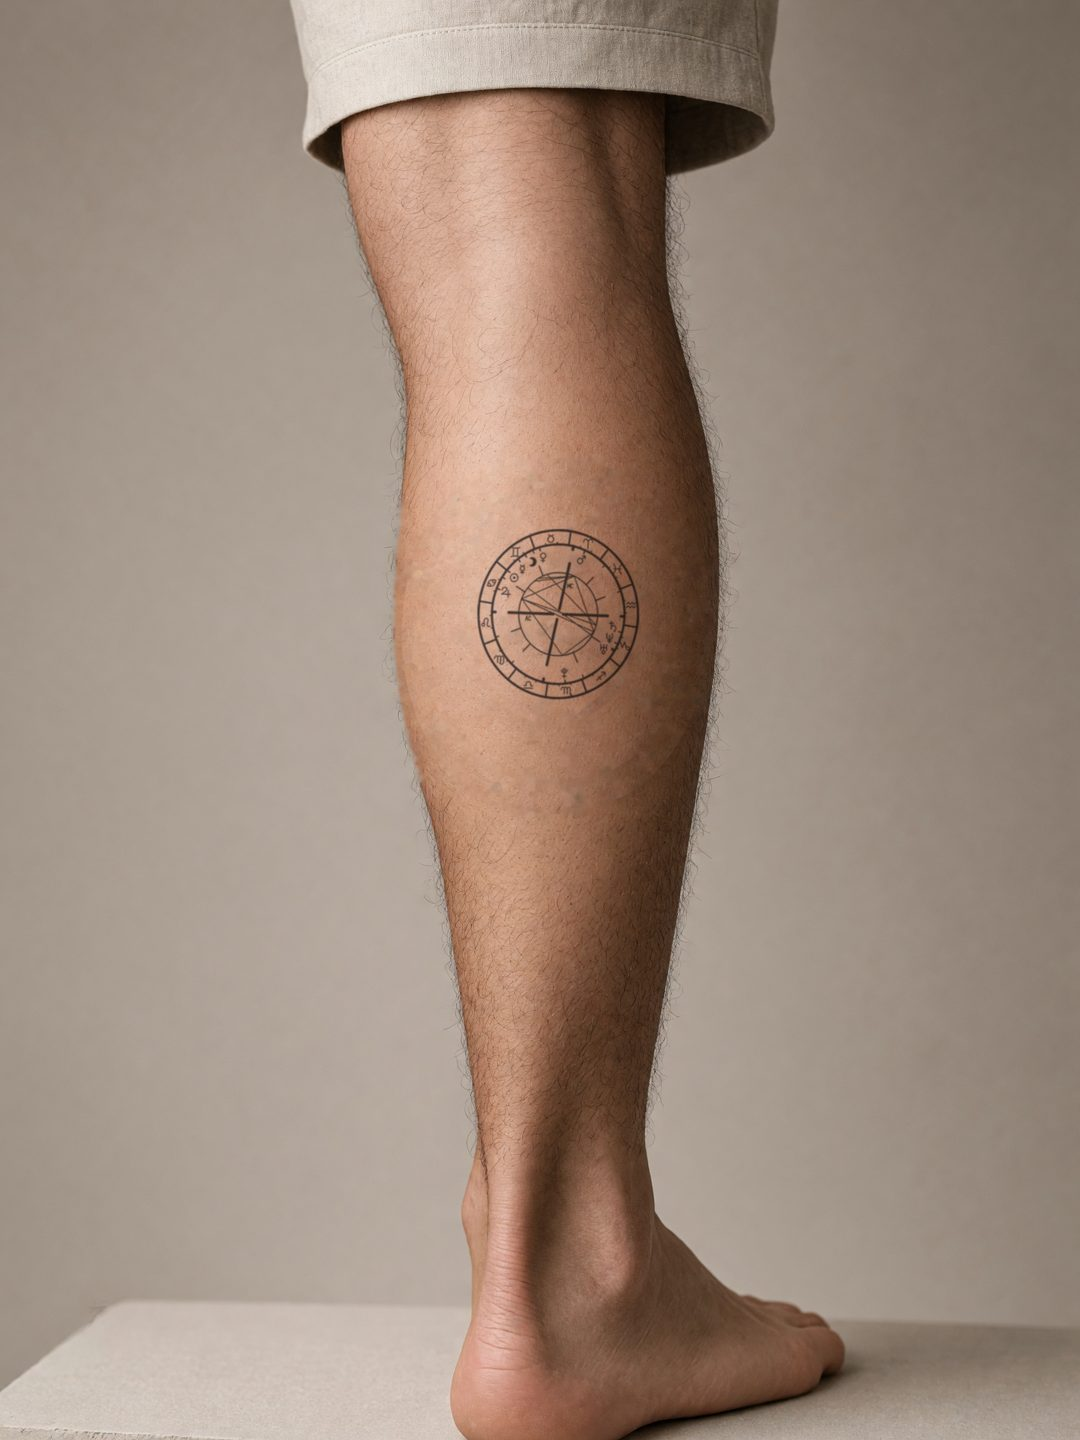
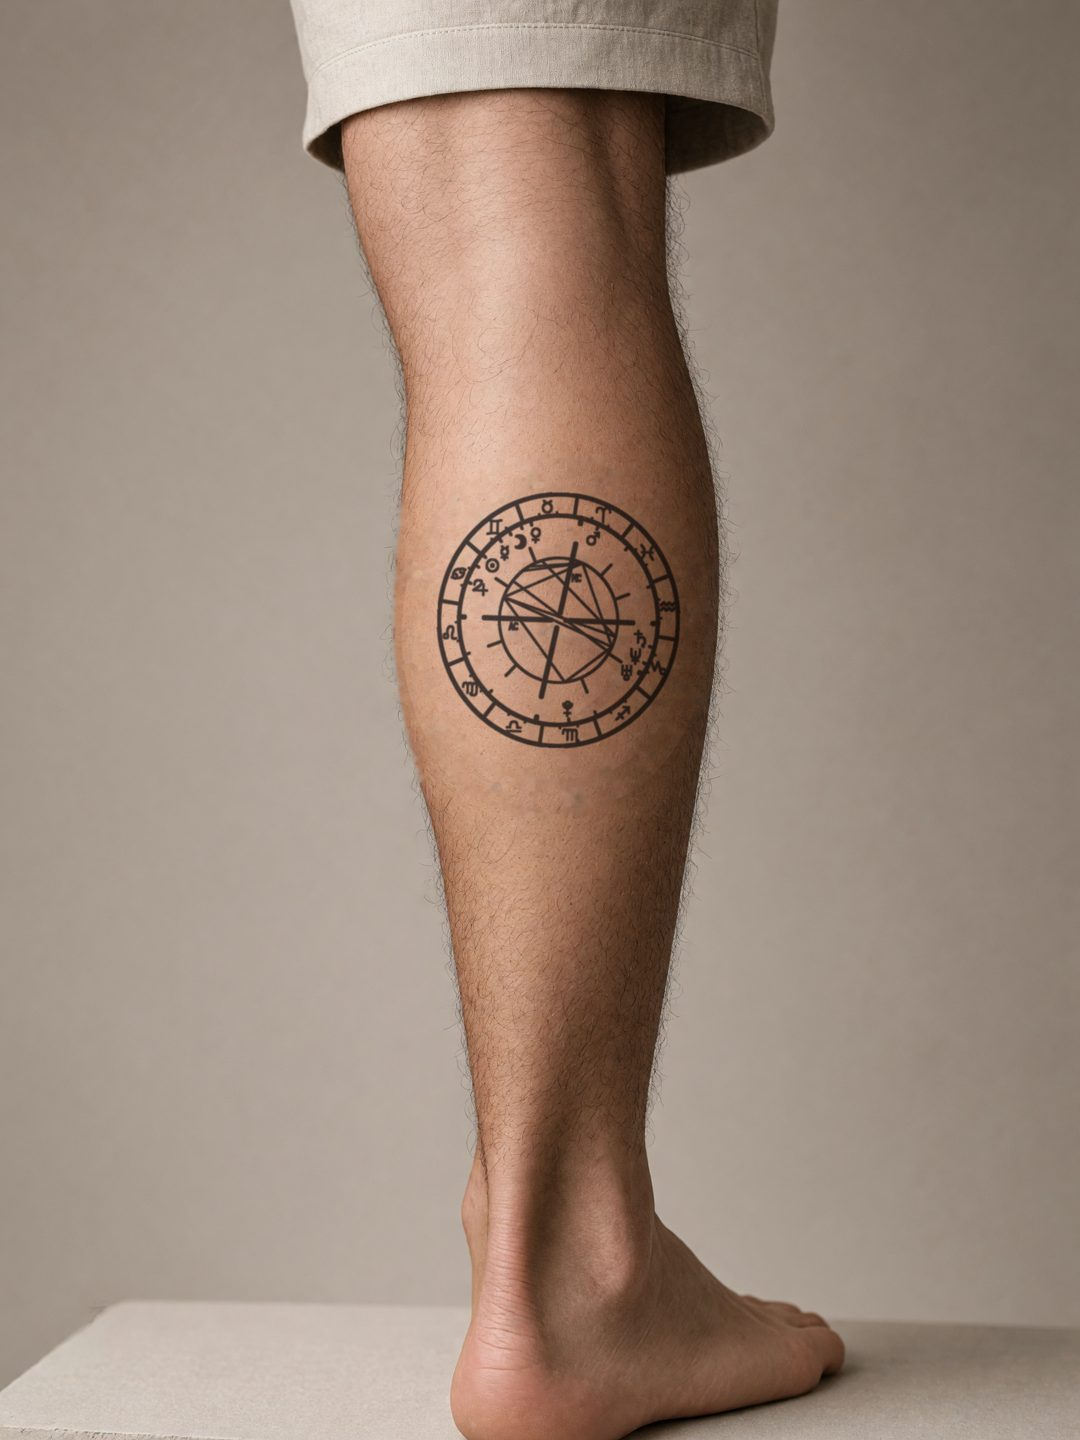
Centre the woman's neck line; calf wheel larger with heavier lines

Changed region(s): [[0.3972, 0.3438, 0.6417, 0.5312]]

diff --git a/index.html b/index.html
@@ -685,7 +685,7 @@
     <span class="label" data-t="ex.label">The tattoo flash</span>
     <h3 id="exTitle" data-t="ex.h">Your readings, worn</h3>
     <div class="ex-grid" id="exGrid">
-      <figure class="ex-sheet"><img src="media/examples/flash-sheet-example.jpg?v=7" alt="An example STAROT tattoo flash sheet with five designs" data-ta="ex.alt" loading="lazy">
+      <figure class="ex-sheet"><img src="media/examples/flash-sheet-example.jpg?v=8" alt="An example STAROT tattoo flash sheet with five designs" data-ta="ex.alt" loading="lazy">
         <figcaption data-t="ex.sheet">An example flash sheet: five designs from one birth chart and one name, ready to print.</figcaption></figure>
       <div class="ex-photos" id="exPhotos"></div>
     </div>
@@ -697,7 +697,7 @@
 
 <script>
 /* ═══ CONFIG — the only lines you need to edit (see docs/LAUNCH.md) ═══ */
-const MEDIA_V="7";   /* bump when a gallery or example image changes, so browsers fetch the new one */
+const MEDIA_V="8";   /* bump when a gallery or example image changes, so browsers fetch the new one */
 const mv=u=>u+(u.includes("?")?"&":"?")+"v="+MEDIA_V;
 const CONFIG={
   payApi:"",        // your payment worker, e.g. "https://starot-pay.yourname.workers.dev" — empty = tattoo files download free

diff --git a/tools/higgsfield/composite-wheel-forearm.py b/tools/higgsfield/composite-wheel-forearm.py
@@ -14,31 +14,34 @@ RAW = ROOT / "media/gallery/raw"
 DES = ROOT / "media/designs"
 
 # plate, crop box (or None), design, output, centre (x, y) in the plate, width px, x-squash for the
-# curve of the limb, rotation in degrees (counter-clockwise)
+# curve of the limb, rotation in degrees (counter-clockwise), extra line weight in px (a tattoo
+# artist opens up the lines when a design goes on smaller)
 JOBS = [
     ("calf-plate-man-clean.png", None, "design-1-natal-wheel.png", "wheel-calf-composite-man.png",
-     (918, 1010), 280, .95, -2),
+     (918, 1020), 420, .95, -2, 3),
     ("wheel-forearm-woman-v1.png", (0, 1445, 1362, 2363), "design-4-sun-and-rising-gemini-leo.png",
-     "line-forearm-composite-woman.png", (681, 1676), 440, 1, 59),   # the forearm's axis, measured edge to edge
+     "line-forearm-composite-woman.png", (681, 1676), 440, 1, 59, 0),   # the forearm's axis, measured edge to edge
 ]
 INK = (26, 28, 34)
 STRENGTH = 1.6
 OPACITY = 0.92
 
-def ink_layer(path, width, squash, angle):
+def ink_layer(path, width, squash, angle, bolder=0):
     a = Image.open(path).convert("RGBA").getchannel("A")
     a = a.crop(a.getbbox())
     h = round(a.height * width / a.width)
     a = a.resize((round(width * squash), h), Image.LANCZOS)
+    if bolder:
+        a = a.filter(ImageFilter.MaxFilter(bolder))
     a = a.rotate(angle, resample=Image.BICUBIC, expand=True)
     a = a.filter(ImageFilter.GaussianBlur(0.9))
     noise = Image.effect_noise(a.size, 22).filter(ImageFilter.GaussianBlur(1.2))
     return ImageChops.multiply(a, noise.point(lambda v: 205 + v * 50 // 255))
 
 tint = tuple(min(255, round(c * STRENGTH)) for c in INK)
-for plate, crop, design, out, (cx, cy), width, squash, angle in JOBS:
+for plate, crop, design, out, (cx, cy), width, squash, angle, bolder in JOBS:
     base = Image.open(RAW / plate).convert("RGB")
-    a = ink_layer(DES / design, width, squash, angle).point(lambda v: round(v * OPACITY))
+    a = ink_layer(DES / design, width, squash, angle, bolder).point(lambda v: round(v * OPACITY))
     x, y = cx - a.width // 2, cy - a.height // 2
     region = base.crop((x, y, x + a.width, y + a.height))
     inked = ImageChops.multiply(region, Image.new("RGB", a.size, tint))

diff --git a/tools/higgsfield/composite-neck.py b/tools/higgsfield/composite-neck.py
@@ -16,7 +16,7 @@ DESIGN = DES / "design-4-sun-and-rising-gemini-leo.png"
 # plate, output, centre (x, y), width in px (~3.5 cm on that neck), rotation in degrees
 PLACES = [
     ("neck-plate-man-v13.png", "neck-composite-man.png", (895, 1370), 330, 0),
-    ("neck-plate-woman-clean.png", "neck-composite-woman.png", (890, 1175), 290, 0),
+    ("neck-plate-woman-clean.png", "neck-composite-woman.png", (838, 1175), 290, 0),   # centre measured between the neck edges
 ]
 INK = (26, 28, 34)
 STRENGTH = 1.6
